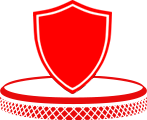
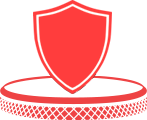
Color fixes - Signup layout fix

diff --git a/apps/cloudscalers_fe/base/wiki_gcb/.files/css/custom.css b/apps/cloudscalers_fe/base/wiki_gcb/.files/css/custom.css
@@ -33,8 +33,8 @@ input, button, select, textarea { font-family: arial, sans-serif; }
 .color2 h2 { color: #d97804; }
 .color3 h2 { color: #06a7e2; }
 .color4 h2 { color: #f6b332; }
-.color5 h2 { color: #ff0000; }
-.color6 h2 { color: #c714d2; }
+.color5 h2 { color: #ff3d3d; }
+.color6 h2 { color: #af45c3; }
 .leftIcon { margin: 0 0 50px 215px; }
 /*.color3, .color4 { margin: 50px 0 0 0; }*/
 .color3 { clear: left; }
@@ -106,7 +106,7 @@ footer { background: #06a7e2; margin: 0 0 0 0; width: 100%; }
 .blue h4 > a, .sideNav .header.blue > a { background: #21C3FF; }
 .green h4 > a, .sideNav .header.green > a { background: #80bd01; }
 .orange h4 > a, .sideNav .header.orange > a { background: #f6b332; }
-.red h4 > a, .sideNav .header.red > a { background: #ff0000; }
+.red h4 > a, .sideNav .header.red > a { background: #ff3d3d; }
 .darkOrange h4 > a, .sideNav .header.darkOrange > a { background: #d97804; }
 .blue + .panel-collapse, .sideNav .blue.header { background: #ebfaff; }
 .green + .panel-collapse, .sideNav .green.header { background: #edffc9; }
@@ -713,8 +713,8 @@ body:before { content:""; height:100%; float:left; width:0; margin-top:-32767px;
 .color2 h2 p a { color: #d97804; }
 .color3 h2 p a { color: #06a7e2; }
 .color4 h2 p a { color: #f6b332; }
-.color5 h2 p a { color: #ff0000; }
-.color6 h2 p a { color: #c714d2; }
+.color5 h2 p a { color: #ff3d3d; }
+.color6 h2 p a { color: #af45c3; }
 .boxes h2 p a { font-size: 22px; }
 .boxes h2 p a:hover { color: inherit; }
 .form-horizontal.ng-scope h2 { color: #000; }
@@ -830,8 +830,8 @@ box-shadow: 0 1px 1px rgba(0,0,0,0.05);
 .color2 p a { color: #d97804; }
 .color3 p a { color: #06a7e2; }
 .color4 p a { color: #f6b332; }
-.color5 p a { color: #ff0000; }
-.color6 p a { color: #c714d2; }
+.color5 p a { color: #ff3d3d; }
+.color6 p a { color: #af45c3; }
 .boxes p a { font-size: 22px; }
 .newDecks2 .boxes ul { margin: 0; padding: 0; }
 .newDecks2 .color3 { clear: none; }
